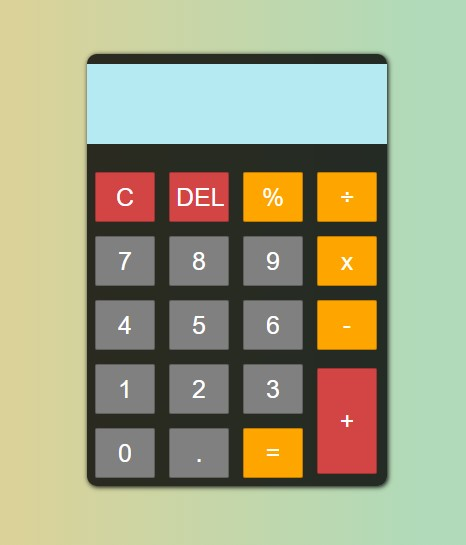
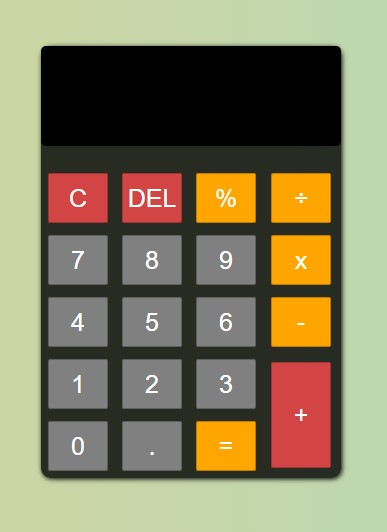
Atualização

diff --git a/calculadora-javascript.html b/calculadora-javascript.html
@@ -7,13 +7,18 @@
     <title>Calculadora</title>
     
     <style>
+        * {
+            margin: 0;
+            padding: 0;
+            box-sizing: border-box;
+        }
         body {
             background: -webkit-linear-gradient(90deg, #DAD299 10%, #B0DAB9 90%);
             background: -moz-linear-gradient(90deg, #DAD299 10%, #B0DAB9 90%);
             background: -ms-linear-gradient(90deg, #DAD299 10%, #B0DAB9 90%);
             background: -o-linear-gradient(90deg, #DAD299 10%, #B0DAB9 90%);
             background: linear-gradient(90deg, #DAD299 10%, #B0DAB9 90%);
-}
+        }
 
         .calculadora {
             margin: 50px auto;
@@ -22,7 +27,10 @@
             background-color: rgba(0, 0, 0, 0.8);
             border: collapse;
             box-shadow: 1px 1px 5px #000;
-}
+        }
+        .table-responsive{
+            width: 100% !important;
+        }
         .botao{
             width: 60px;
             height: 50px;
@@ -64,35 +72,17 @@
             background-color: black;
         }
         #display{
-            background-color: #b6eaf3;
-            font-family:'Franklin Gothic Medium', 'Arial Narrow', Arial, sans-serif;
-            text-align: right;      
-            padding: 0 10px;
-            width: 280px;
-            height: 80px;
-            margin-top: 10px;
-            margin-bottom: 20px;
-            font-weight: 600;
-            font-size: 30px;
-        }
-
-        .justify-content-center {
-            justify-content: center!important;
-        }
-
-        .d-flex {
-            display: flex!important;
-        }
-
-        .col {
-            flex-basis: 0;
-            flex-grow: 1;
-            max-width: 100%;
-            position: relative;
+            display: flex;
+            justify-content: flex-end;
             width: 100%;
-            min-height: 1px;
-            padding-right: 15px;
-            padding-left: 15px;
+            height: 100px;
+            margin-bottom: 20px;
+            padding: 15px;
+            background-color: black;
+            color: white;
+            font-size: 1.5rem;
+            overflow: hidden;
+            border-radius: 5px;
         }
 
     </style>
@@ -101,13 +91,11 @@
 
 <body>
     <div class="fundo">
-    
-        <div class="col d-flex justify-content-center">
 
         <div class="calculadora">
             <p id="display"></p>
             
-            <table>
+            <table class="table-responsive">
                 <tr>
                     <td><button class="botao" onclick="clean()">C</button></td>
                     <td><button class="botao" onclick="backspace()">DEL</button></td>
@@ -139,7 +127,6 @@
                 </tr>
             </table>
             
-            </div>
         </div>
     </div>
 
